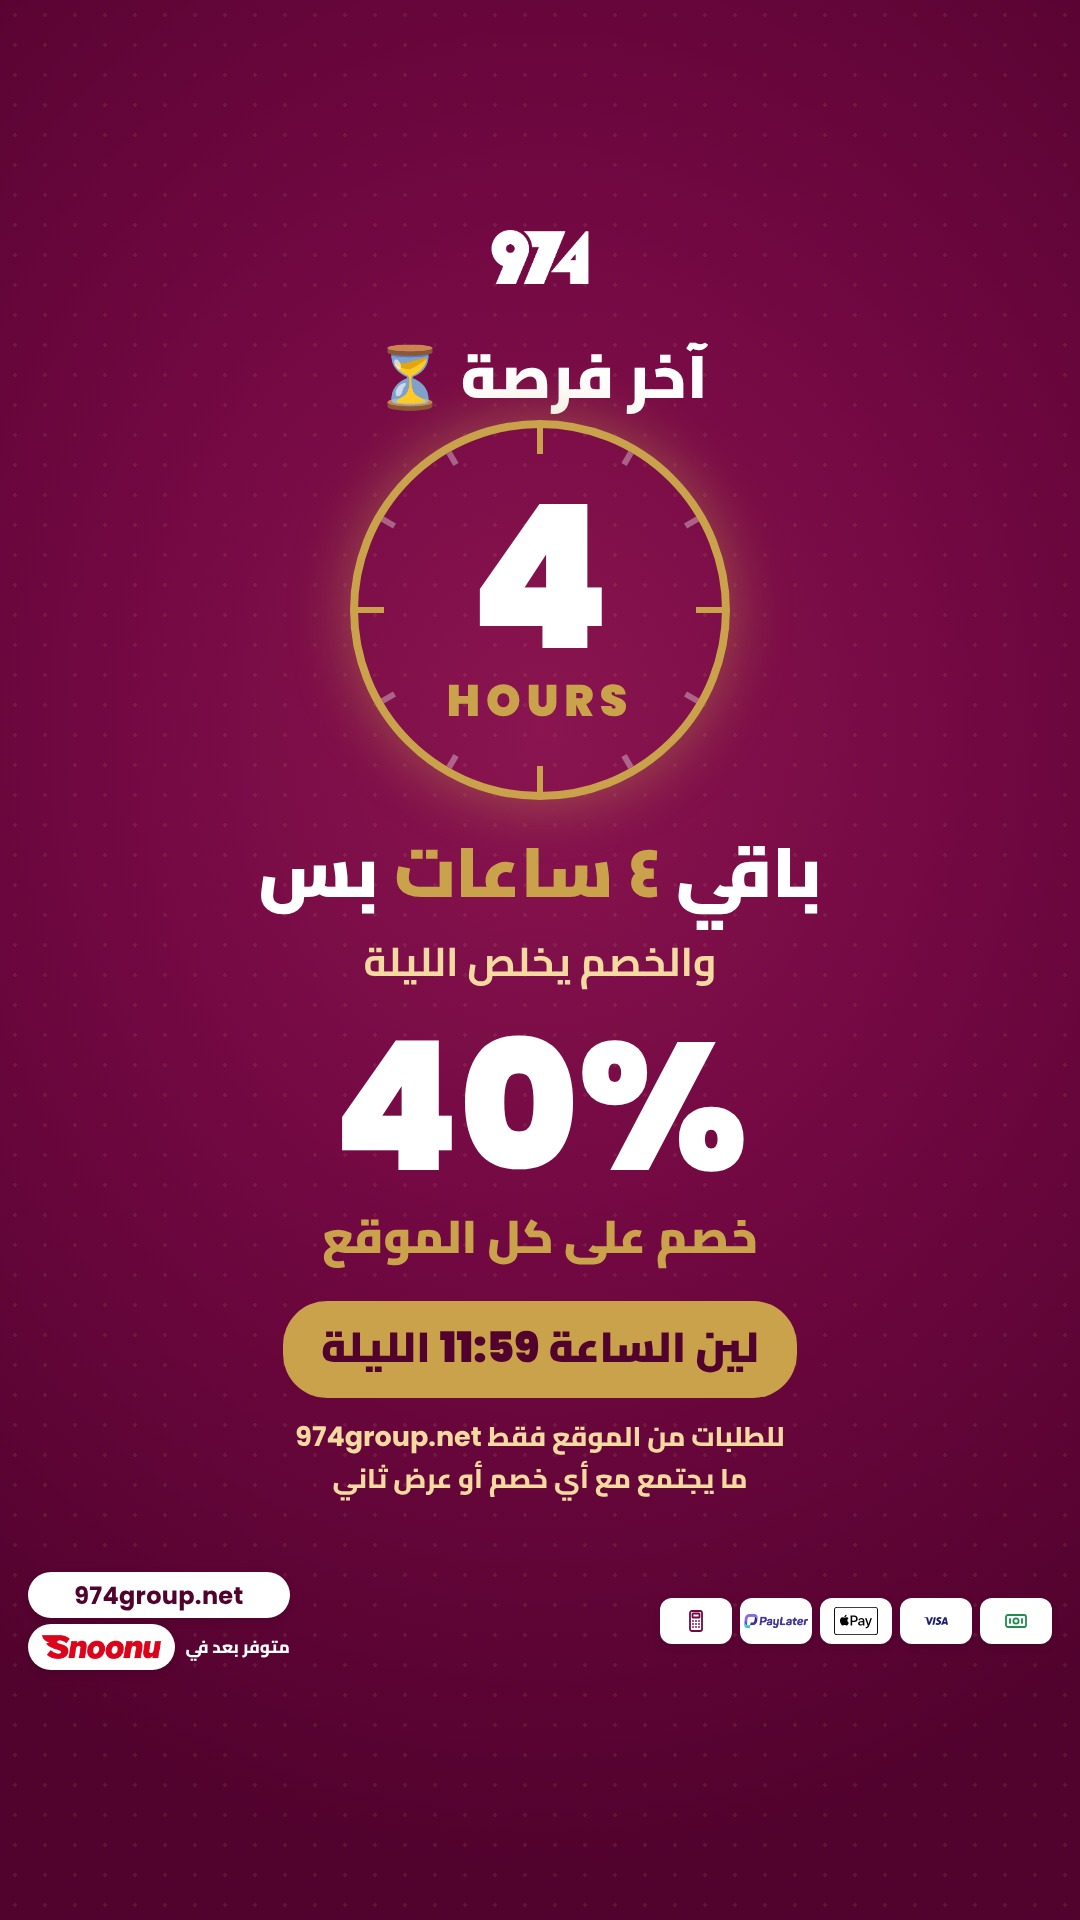
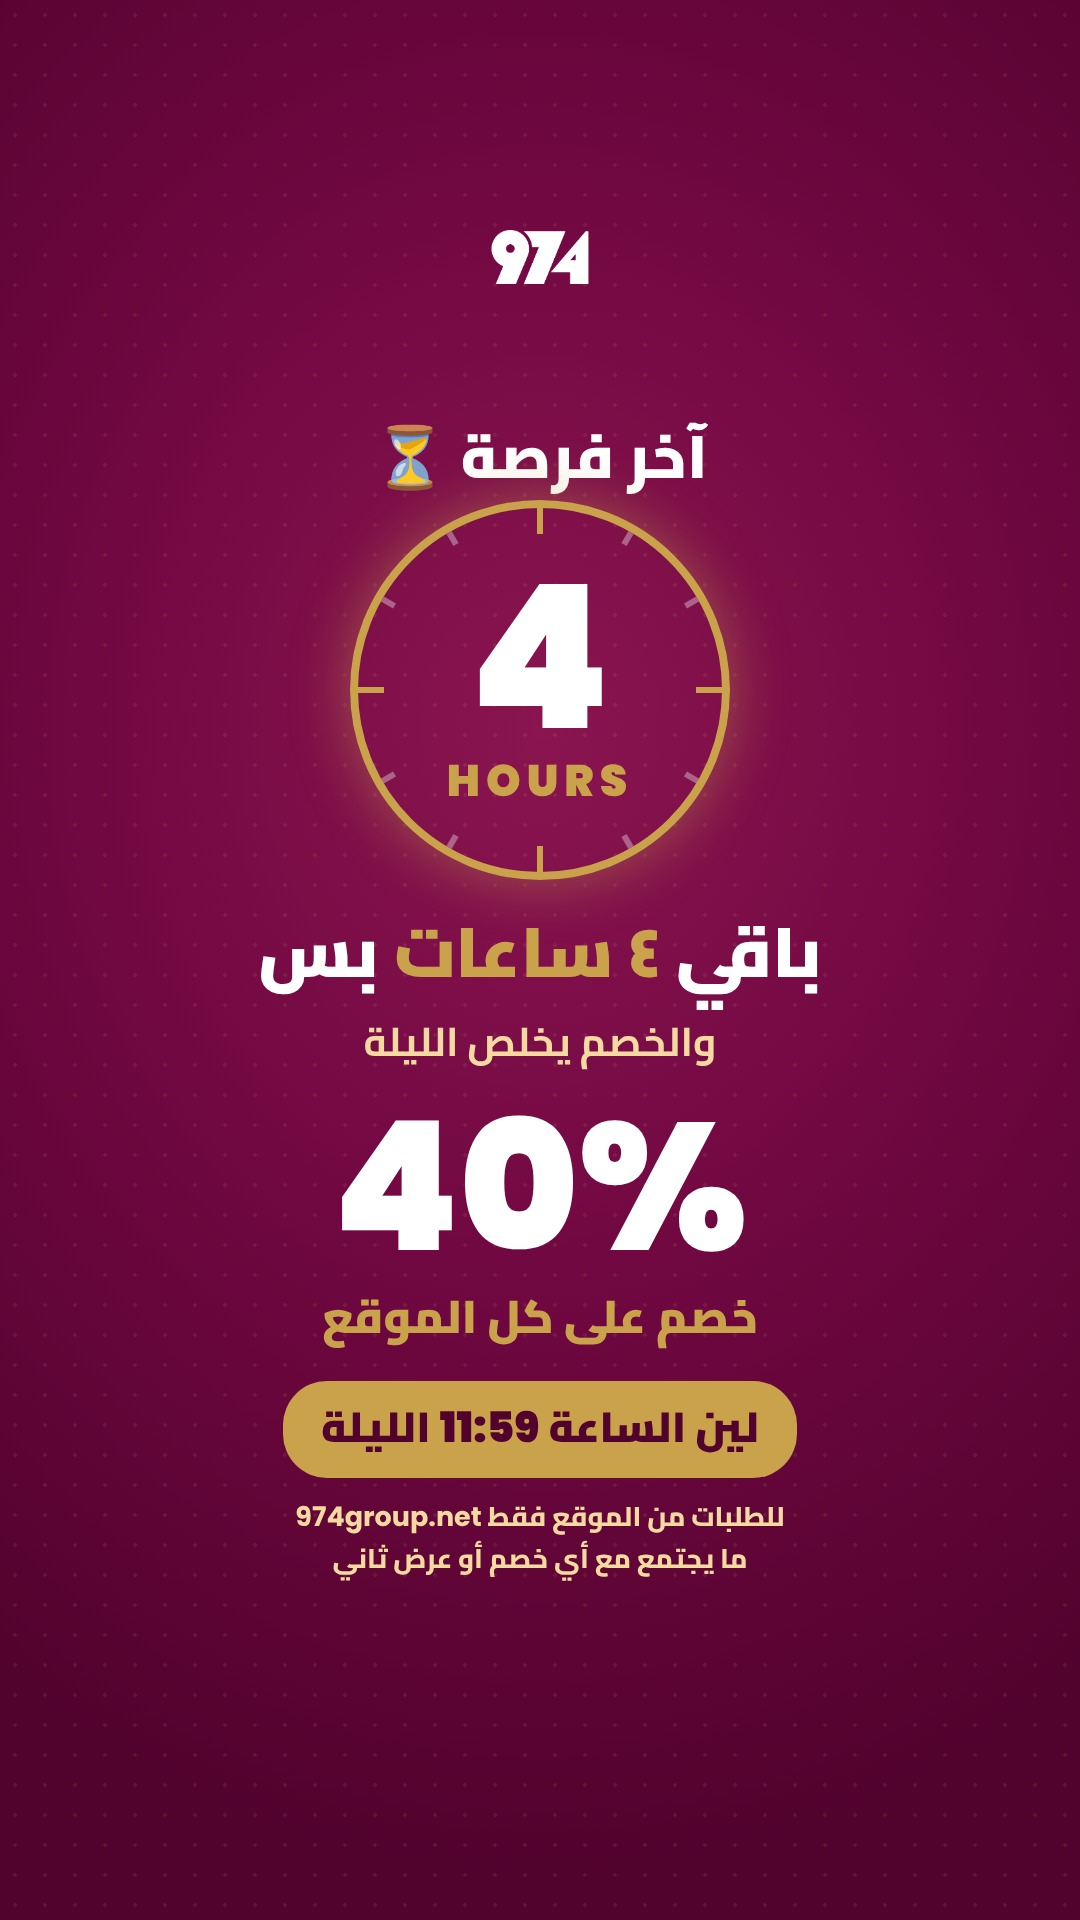
Last 4 hours story: no payfoot (owner request)
Claude-Session: https://claude.ai/code/session_01K6HDWNrArsGSJekW1VcEzV

Changed region(s): [[0.2444, 0.1562, 0.9778, 0.875], [0.0306, 0.8125, 0.275, 0.875]]

diff --git a/posts/2026-11/anniversary-4/last4.py b/posts/2026-11/anniversary-4/last4.py
@@ -3,20 +3,20 @@ import sys, os
 sys.path.insert(0, '/home/claude/974-social/posts/2026-11/ig-ads-best-sellers'); import gen as G
 D = os.path.dirname(os.path.abspath(__file__)); G.OUT = D + '/out'
 M, DEEP, GOLD = '#720842', '#51022D', '#C9A24B'
-CSS = G.CTA_CSS + '''.P{font-family:Poppins;font-weight:900}.t{font-family:Cairo;text-align:center;direction:rtl;color:#fff}
+CSS = G.CTA_CSS + '''.pf{display:none!important}.P{font-family:Poppins;font-weight:900}.t{font-family:Cairo;text-align:center;direction:rtl;color:#fff}
 .chip{display:inline-block;background:%s;color:%s;font-family:Cairo;font-weight:900;font-size:42px;border-radius:44px;padding:6px 38px 12px}''' % (GOLD, DEEP)
 def page():
     ticks=''.join(f'<div style="position:absolute;left:50%;top:0;width:6px;height:{26 if i%3==0 else 14}px;background:{GOLD if i%3==0 else "rgba(255,255,255,.35)"};transform-origin:3px 182px;transform:translateX(-3px) rotate({i*30}deg)"></div>' for i in range(12))
     body=f'''<div class="abs" style="inset:0;background:radial-gradient(90% 60% at 50% 38%,#8A1550 0%,{M} 45%,{DEEP} 100%)"></div>
 <div class="abs" style="inset:0;background-image:radial-gradient(rgba(232,200,120,.09) 1.6px,transparent 1.7px);background-size:30px 30px"></div><!--/bk-->
 <img class="abs" src="file://{G.LW}" style="left:50%;transform:translateX(-50%);top:0;height:54px">
-<div class="abs t" style="left:0;right:0;top:90px;font-weight:900;font-size:60px">آخر فرصة ⏳</div>
-<div class="abs" style="left:350px;top:190px;width:380px;height:380px;border-radius:50%;border:8px solid {GOLD};box-shadow:0 0 60px rgba(201,162,75,.45)">
+<div class="abs t" style="left:0;right:0;top:170px;font-weight:900;font-size:60px">آخر فرصة ⏳</div>
+<div class="abs" style="left:350px;top:270px;width:380px;height:380px;border-radius:50%;border:8px solid {GOLD};box-shadow:0 0 60px rgba(201,162,75,.45)">
   <div style="position:absolute;inset:0">{ticks}</div>
   <div style="position:absolute;inset:0;display:flex;flex-direction:column;align-items:center;justify-content:center">
     <div class="P" style="font-size:200px;line-height:.9;color:#fff">4</div>
     <div class="P" style="font-size:44px;color:{GOLD};letter-spacing:6px">HOURS</div></div></div>
-<div class="abs t" style="left:0;right:0;top:600px">
+<div class="abs t" style="left:0;right:0;top:680px">
   <div style="font-weight:900;font-size:70px;line-height:1.2">باقي <span style="color:{GOLD}">٤ ساعات</span> بس</div>
   <div style="font-weight:700;font-size:40px;margin-top:10px;color:#F4D9A0">والخصم يخلص الليلة</div>
   <div style="margin-top:18px;line-height:1"><span class="P" style="font-size:180px">40%</span></div>
